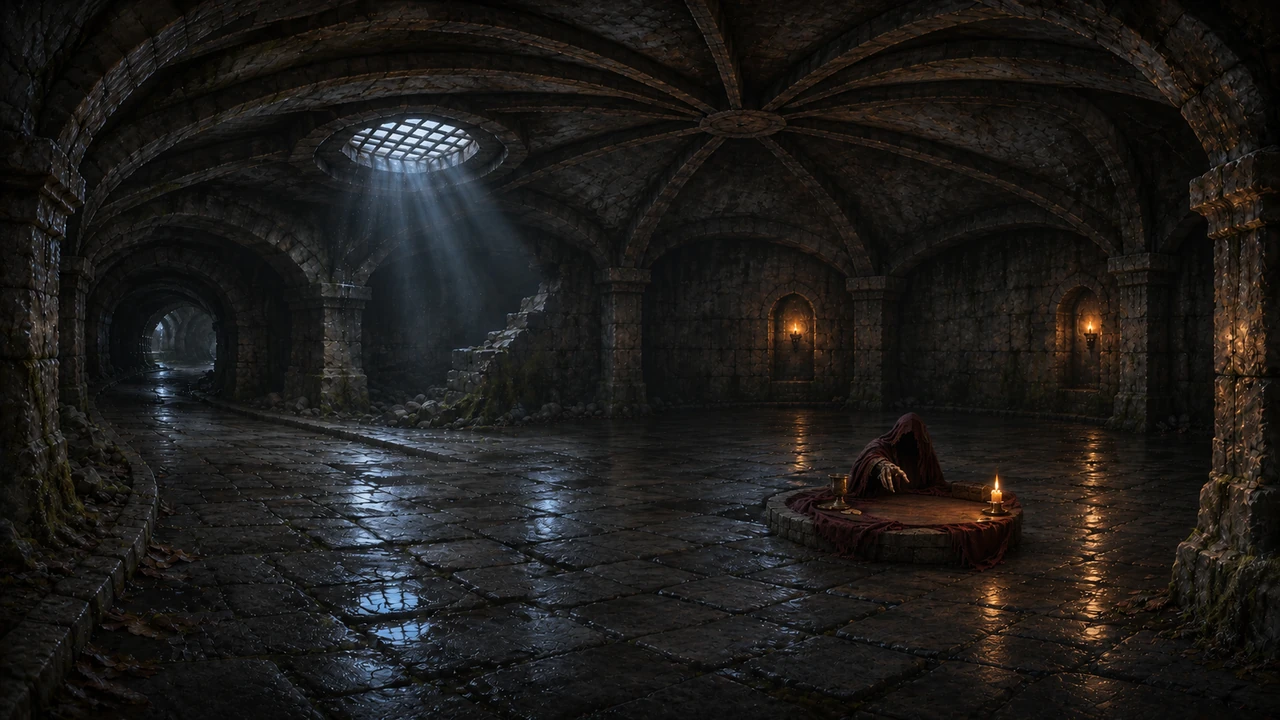
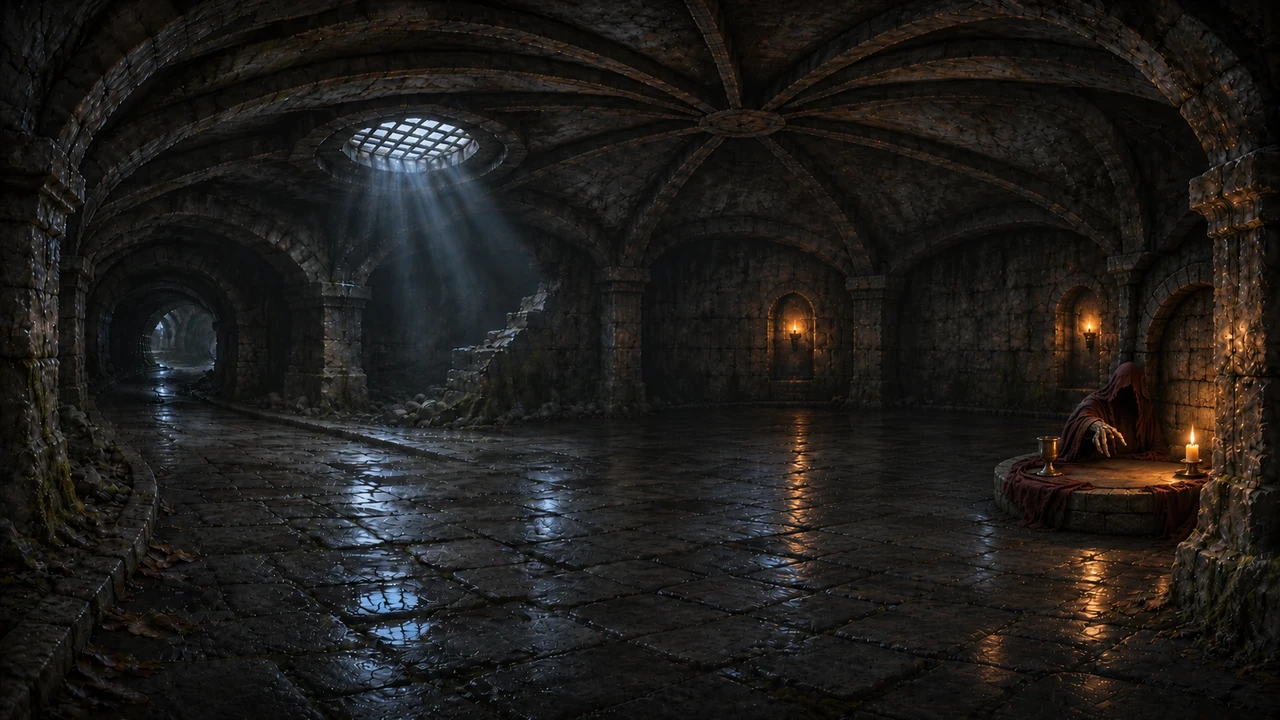
Refine relic scene staging: wall-side debtor and human-scale crown

diff --git a/docs/qa/travel_relic_v5/alcove_revision.md b/docs/qa/travel_relic_v5/alcove_revision.md
@@ -1,0 +1,49 @@
+# Relic V5 wall-side staging correction (2026-11-28)
+
+Player feedback: the debtor sat illogically in the middle of the dungeon;
+the crown was oversized compared with the helmet.
+
+- Repainted the debtor and low table together against the right wall in a
+  stone alcove. The previous location is now continuous wet floor. The
+  chamber, camera family, seated figure, candle and goblet remain coherent.
+- Exact 1280×720 plate; table props in x1040–1180, y460–490; new 144×120
+  registered hand/forearm gesture at (1040,349) with feathered local alpha
+  only. Repositioned light/cloth masks, approach and waiting slots,
+  continuous exit and scene-local shading. No other scenes' art changed.
+- Crown width 67→43px (35.8% reduction); existing fragment/residue/tooth
+  widths derive from this value. Cloth footprint radii 33×8→21×6;
+  customer's waiting position +9px for the smaller pickup.
+- Wizard Tithe, gameplay, committed outcome IDs, timing, audio, routing
+  allowlist, card art and existing hero/Jack library unchanged.
+
+## Evidence
+
+Godot 4.7.2 isolated import and relic smoke PASS: 132 contexts,
+26,589 checks, zero failures, including new position/size guards.
+[Smoke output](alcove_smoke.log). [Offline sampled frames](alcove_samples.jpg):
+debtor at 2.82s and crown at 0s. Composited from actual Godot sprite texture,
+transform, pivot, modulate and z-order samples; shader output and audio are
+not reproduced. Native F6 approval remains pending (10/24 live, six staged,
+eight unstaged).
+
+## Asset provenance
+
+Pinned prior project-only debtor plate at
+`a2563d269d7adbf70f25fb95f6d1474277850128`. ImageGen edit prompt:
+preserve chamber, camera, light, style and human scale; move entire
+debtor workstation against right side wall, build small alcove, empty
+table surface for animated props, restore old floor, no party/UI.
+Generated source SHA256
[1 lines of base64/hex data omitted]
+(1672×941), resized Lanczos to 1280×720 WebP quality 90.
+Second ImageGen edit on the crop (1040,349,144,120), enlarged 6×:
+only articulate the existing skeletal wrist and fingers towards the
+table, retain hood, wall and cup. Generated source SHA256
[1 lines of base64/hex data omitted]
+(1374×1145); resized to 144×120, isolated the arm/hand with feathered
+alpha (3.3px blur, 4px outer edge), saved WebP quality 94.
+New runtime hashes, authored shader change and QA sample recorded in
+THIRD_PARTY_ASSETS.json. No external new assets or dependencies. Historical
+project material and tool rights remain a release gate; this is a
+development origin review, not exclusive ownership or commercial clearance.
+Prior revision remains in Git, with unchanged import UIDs.

diff --git a/docs/PROJECT_STATE.md b/docs/PROJECT_STATE.md
@@ -1,3 +1,7 @@
+## Cinematic Travel V5 · relic wall-side staging correction
+
+Player requested the Debtor Bones worksite against a wall and a smaller Broken Crown. Repainted the integrated debtor plate with a right-wall alcove, re-registered the local hand gesture, tabletop props, lights and hero routes. Crown width 67→43 px (−36%), all derived states and cloth trace reduced. Wizard Tithe unchanged. Godot 4.7.2 isolated 132 contexts / 26,589 checks / zero failures. Native F6 acceptance pending; 10/24 live, six staged, eight unstaged. [Correction QA](qa/travel_relic_v5/alcove_revision.md).
+
 ## Cinematic Travel V5 · relic transactions continuous-scene polish
 
 After the player rejected insert-style animation, rebuilt all three staged candidates as a single cohesive human-scale scene: integrated scenery/NPCs, 20 local animated prop cels, 9 standing hero gestures, 2 registered NPC gestures, scene-matched contact shadows/reflections/lighting and continuous camera, distinct committed outcomes and synced existing sounds. F6 uses the same scene path. Godot 4.7.2 isolated 132 contexts / 26,215 checks / zero failures; sampled frames reviewed, native visual/audio acceptance pending. **10/24 live, six staged, eight unstaged**. No campaign selection, gameplay, saves or original card art changed. [Polish QA](qa/travel_relic_v5/polish.md).

diff --git a/docs/HANDOFF.md b/docs/HANDOFF.md
@@ -1,3 +1,7 @@
+## Next player check · debtor alcove and smaller crown
+
+Pull main, F6 `scenes/dev/travel_relic_v5_preview.tscn`. Debtor Bones: now at right-hand wall with a free central passage, seated bone-hand gesture and all four dice actions registered to the new table. X twice to Broken Crown: 43px crown, check relative to helmet, all outcomes and pickup. Wizard Tithe unchanged. 132 contexts / 26,589 checks passed in isolated Godot 4.7.2; native visual/audio check pending. Still staged; do not activate any unaccepted IDs.
+
 ## Next player check · corrected relic movies, no inserts
 
 Player rejected the initial insert-style animation as an unfinished clip from another game. Pull main, F6 `scenes/dev/travel_relic_v5_preview.tscn` (same controls). All three scenes now retain one human-scale painting throughout 6.6s; check standing reach, actual prop reactions, NPC hands, matched tone/shadows/reflections, adult Jack, natural exit and scene-local sounds across 12 outcomes. 132 contexts / 26,215 targeted checks passed; offline sampled frames reviewed, native visual and audio review pending. Keep them staged (10/24 live, six staged, eight unstaged), do not activate until accepted. [Polish QA](qa/travel_relic_v5/polish.md).

diff --git a/docs/DECISIONS.md b/docs/DECISIONS.md
@@ -1,3 +1,7 @@
+## Cinematic Travel V5 · logical worksite placement and relic scale
+
+The player explicitly rejected the debtor sitting in the middle of the dungeon and a crown larger than the helmet. Put the entire debtor workstation in an architectural alcove, not just translate a detached sprite; keep the central passage free and re-register every local effect. Use 43px crown width and proportionally derived prop states, matching human-scale gear. No change to campaign or relic rules.
+
 ## Cinematic Travel V5 · relic polish supersedes inserts
 
 Player rejected the cut from human-scale wide scene to legacy artwork. Keep a single physically coherent environment and shared camera throughout; static NPC/table painted into the location, registered local gesture cels, independent physical props and outcome-specific motion, standing role gestures rather than unrelated kneeling. One actual party and adult Jack remain on-screen; subtly grade characters to local light, shadows and wet-ground reflection. Reuse project audio. Previous insert assets retained for rollback, no rule/save/live allowlist change. [Polish QA](qa/travel_relic_v5/polish.md).

diff --git a/CHANGELOG.md b/CHANGELOG.md
@@ -1,5 +1,11 @@
 ## Cinematic Travel V5 - continuous relic cinematic polish - 28 Nov 2026
 
+## Cinematic Travel V5 — wall-side debtor and smaller crown — 28 Nov 2026
+
+- Repaint the debtor table and seated figure directly against the right wall; register dice, dish, chest, gesture, candle and party approach/departure to the new location. Free central passage.
+- Reduce crown from 67 to 43px (36%) with matching broken/melted states, cloth trace and pickup reach. Wizard Tithe unchanged.
+- Isolated Godot 4.7.2: 132 contexts / 26,589 checks / zero failures. Native F6 acceptance pending; no campaign selection or rules changed.
+
 - Replaced rejected insert-based staging for Debtor Bones, Wizard Tithe and Broken Crown with unified human-scale art, standing hero gestures, local NPC/prop actions and coherent light, shadows, reflections and existing sound palette.
 - Actual 12 committed outcomes; no card art, rules, saves or production allowlist changes. Godot 4.7.2 isolated 132 contexts / 26,215 checks / zero failures. Native F6 acceptance pending.
 - [Polish QA](docs/qa/travel_relic_v5/polish.md).

diff --git a/docs/VISUAL_ASSET_REGISTRY.md b/docs/VISUAL_ASSET_REGISTRY.md
@@ -1,3 +1,7 @@
+## Travel V5 · debtor alcove correction
+
+Updated `relic_polish/debtor_bones/plate.webp` and `npc_gesture.webp`: 1280×720 integrated right-wall nook and 144×120 local forearm/hand pose at (1040,349), generated from pinned prior Misdeal art. Same resource UIDs. Crown footprint shader reduced in line with prop profile. Previous revision retained in Git. [Provenance](qa/travel_relic_v5/alcove_revision.md).
+
 ## Travel V5 · continuous relic scene polish
 
 `assets/pixel/travel/cinematic_v5/relic_polish/`: three integrated 1280×720 plates, three transparent 192px-cell tabletop atlases (20 pieces), two registered transparent regional NPC cels, and 864×864 3×3 standing-gesture atlas (9 native 288px cels, 96px logical geometry). Runtime three local scene/reflection/liquid shaders, source hash receipt and exact file hashes. No reuse of old cinematic cutaway layer; the previous assets and V4 art are retained. [Review and provenance](qa/travel_relic_v5/polish.md).

diff --git a/THIRD_PARTY_NOTICES.md b/THIRD_PARTY_NOTICES.md
@@ -89,3 +89,5 @@ Add the registry ID, actual work title, author, original source, license,
 changes and relevant copyright/NOTICE text before distribution. Use the
 upstream license verbatim in the original license file rather than
 reconstructing it from this summary.
+
+Relic V5 debtor alcove and crown scale correction (2026-11-28): project-origin ImageGen edits of pinned Misdeal plate and hand crop; local authored shader and sampled frame proof. [Correction origin and rights review](docs/qa/travel_relic_v5/alcove_revision.md). No external new asset or dependency.
